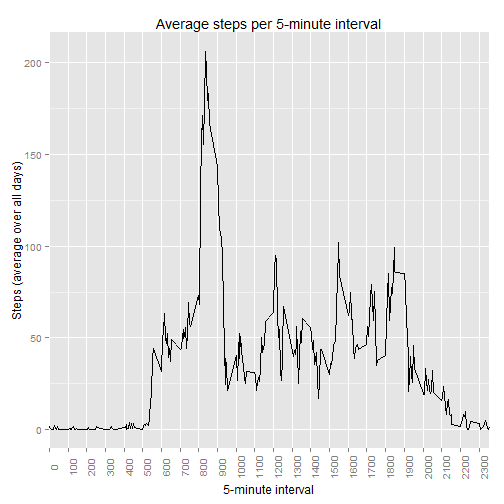
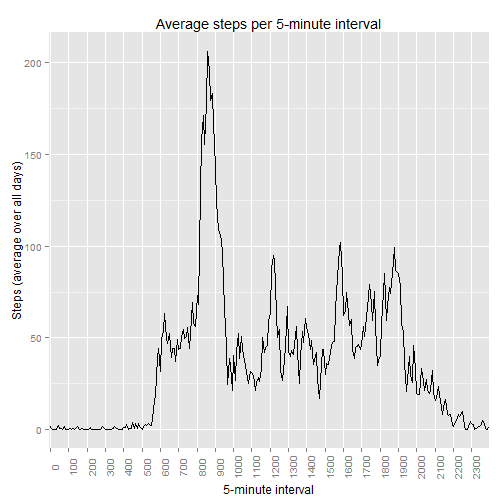
bug fixes and updates

diff --git a/PA1_template.html b/PA1_template.html
@@ -206,11 +206,21 @@ hr {
 <pre><code class="r"># Load ggplot2 library since we will use it for plots
 library(ggplot2)
 
+# Unzip the raw data file, if the .csv file is not present
+csvFile &lt;- &quot;activity.csv&quot;
+zipFile &lt;- &quot;activity.zip&quot;
+if ( ! file.exists(csvFile) ) {
+    unzip(zipFile)
+}
+
 # Read in the data file
-mydata &lt;- read.csv(&quot;activity.csv&quot;)
+mydata &lt;- read.csv(csvFile)
 
 # Transform date strings into Date objects
 mydata$date &lt;- as.Date(mydata$date)
+
+# Transform interval into a factor
+mydata$interval &lt;- as.factor(mydata$interval)
 </code></pre>
 
 <h2><br></h2>
@@ -281,7 +291,11 @@ steps_by_interval &lt;- aggregate(mydata$steps,
 names(steps_by_interval)[names(steps_by_interval)==&quot;x&quot;] &lt;- &quot;steps&quot;
 
 # Generate x-axis ticks
-max_interval &lt;- max(steps_by_interval$interval)
+max_interval &lt;- max(
+  as.numeric(
+    levels(steps_by_interval$interval)
+    )
+  )
 x_incr &lt;- 100
 x_axis_ticks &lt;- seq(
   from=0, 
@@ -291,7 +305,7 @@ x_axis_ticks &lt;- seq(
 
 # Plot the line graph
 g &lt;- ggplot(steps_by_interval, aes(interval, steps)) +
-    geom_line() +
+    geom_line(aes(group=1)) +
     xlab(&quot;5-minute interval&quot;) +
     ylab(&quot;Steps (average over all days)&quot;) +
     labs(title=&quot;Average steps per 5-minute interval&quot;) +
@@ -301,7 +315,7 @@ g &lt;- ggplot(steps_by_interval, aes(interval, steps)) +
 print(g)
 </code></pre>
 
[2 lines of base64/hex data omitted]
 
 <h4>2. Which 5-minute interval, on average across all the days in the dataset, contains the maximum number of steps?</h4>
 
@@ -312,6 +326,7 @@ max_steps_df &lt;- subset(steps_by_interval, steps==max_steps)
 </code></pre>
 
 <pre><code>## [1] 835
+## 288 Levels: 0 5 10 15 20 25 30 35 40 45 50 55 100 105 110 115 120 ... 2355
 </code></pre>
 
 <p><strong>The 5-minute interval, on average across all the days in the dataset, containing the maximum number of steps = max_steps_interval = <font color="blue">835</font>.</strong></p>
@@ -514,7 +529,11 @@ steps_by_interval &lt;- aggregate(mydata.imputed$steps,
 names(steps_by_interval)[names(steps_by_interval)==&quot;x&quot;] &lt;- &quot;steps&quot;
 
 # Generate x-axis ticks
-max_interval &lt;- max(steps_by_interval$interval)
+max_interval &lt;- max(
+  as.numeric(
+    levels(steps_by_interval$interval)
+    )
+  )
 x_incr &lt;- 100
 x_axis_ticks &lt;- seq(
   from=0, 
@@ -524,7 +543,7 @@ x_axis_ticks &lt;- seq(
 
 # Plot the line graph
 g &lt;- ggplot(steps_by_interval, aes(interval, steps)) +
-    geom_line() +
+    geom_line(aes(group=1)) +
     facet_grid(DayType ~ .) +
     theme(legend.position=&quot;none&quot;) +
     xlab(&quot;5-minute interval&quot;) +
@@ -536,7 +555,7 @@ g &lt;- ggplot(steps_by_interval, aes(interval, steps)) +
 print(g)
 </code></pre>
 
[2 lines of base64/hex data omitted]
 
 <hr/>
 

diff --git a/PA1_template.md b/PA1_template.md
@@ -5,11 +5,21 @@
 # Load ggplot2 library since we will use it for plots
 library(ggplot2)
 
+# Unzip the raw data file, if the .csv file is not present
+csvFile <- "activity.csv"
+zipFile <- "activity.zip"
+if ( ! file.exists(csvFile) ) {
+    unzip(zipFile)
+}
+
 # Read in the data file
-mydata <- read.csv("activity.csv")
+mydata <- read.csv(csvFile)
 
 # Transform date strings into Date objects
 mydata$date <- as.Date(mydata$date)
+
+# Transform interval into a factor
+mydata$interval <- as.factor(mydata$interval)
 ```
 <br>
 ---
@@ -84,7 +94,11 @@ steps_by_interval <- aggregate(mydata$steps,
 names(steps_by_interval)[names(steps_by_interval)=="x"] <- "steps"
 
 # Generate x-axis ticks
-max_interval <- max(steps_by_interval$interval)
+max_interval <- max(
+  as.numeric(
+    levels(steps_by_interval$interval)
+    )
+  )
 x_incr <- 100
 x_axis_ticks <- seq(
   from=0, 
@@ -94,7 +108,7 @@ x_axis_ticks <- seq(
 
 # Plot the line graph
 g <- ggplot(steps_by_interval, aes(interval, steps)) +
-    geom_line() +
+    geom_line(aes(group=1)) +
     xlab("5-minute interval") +
     ylab("Steps (average over all days)") +
     labs(title="Average steps per 5-minute interval") +
@@ -117,6 +131,7 @@ max_steps_df <- subset(steps_by_interval, steps==max_steps)
 
 ```
 ## [1] 835
+## 288 Levels: 0 5 10 15 20 25 30 35 40 45 50 55 100 105 110 115 120 ... 2355
 ```
 
 **The 5-minute interval, on average across all the days in the dataset, containing the maximum number of steps = max_steps_interval = <font color="blue">835</font>.**
@@ -341,7 +356,11 @@ steps_by_interval <- aggregate(mydata.imputed$steps,
 names(steps_by_interval)[names(steps_by_interval)=="x"] <- "steps"
 
 # Generate x-axis ticks
-max_interval <- max(steps_by_interval$interval)
+max_interval <- max(
+  as.numeric(
+    levels(steps_by_interval$interval)
+    )
+  )
 x_incr <- 100
 x_axis_ticks <- seq(
   from=0, 
@@ -351,7 +370,7 @@ x_axis_ticks <- seq(
 
 # Plot the line graph
 g <- ggplot(steps_by_interval, aes(interval, steps)) +
-    geom_line() +
+    geom_line(aes(group=1)) +
     facet_grid(DayType ~ .) +
     theme(legend.position="none") +
     xlab("5-minute interval") +
